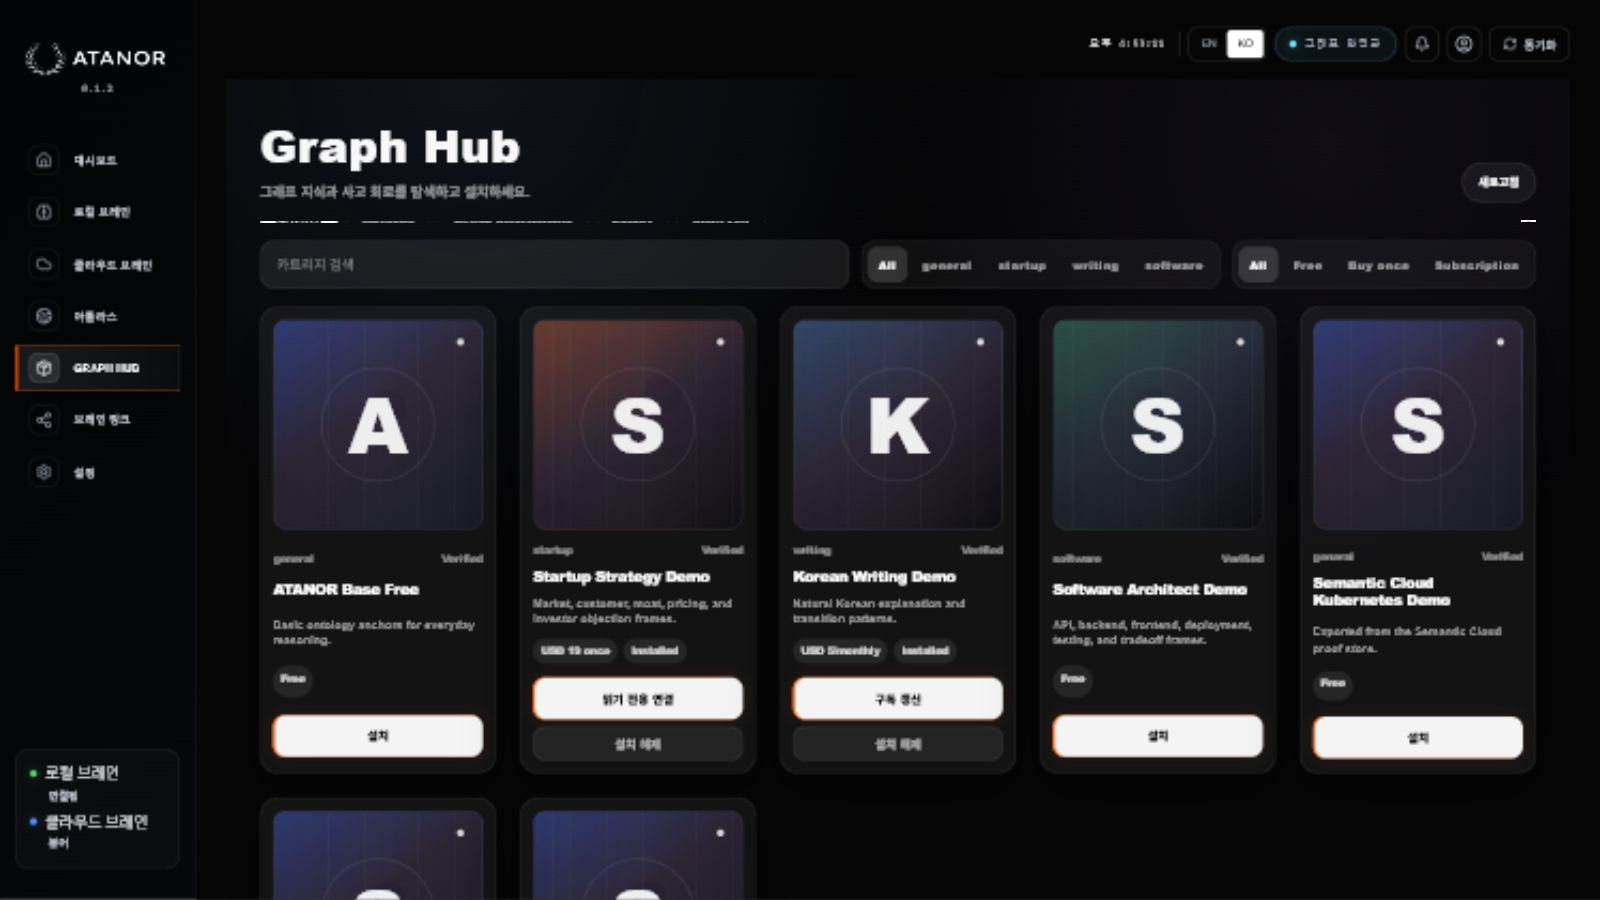
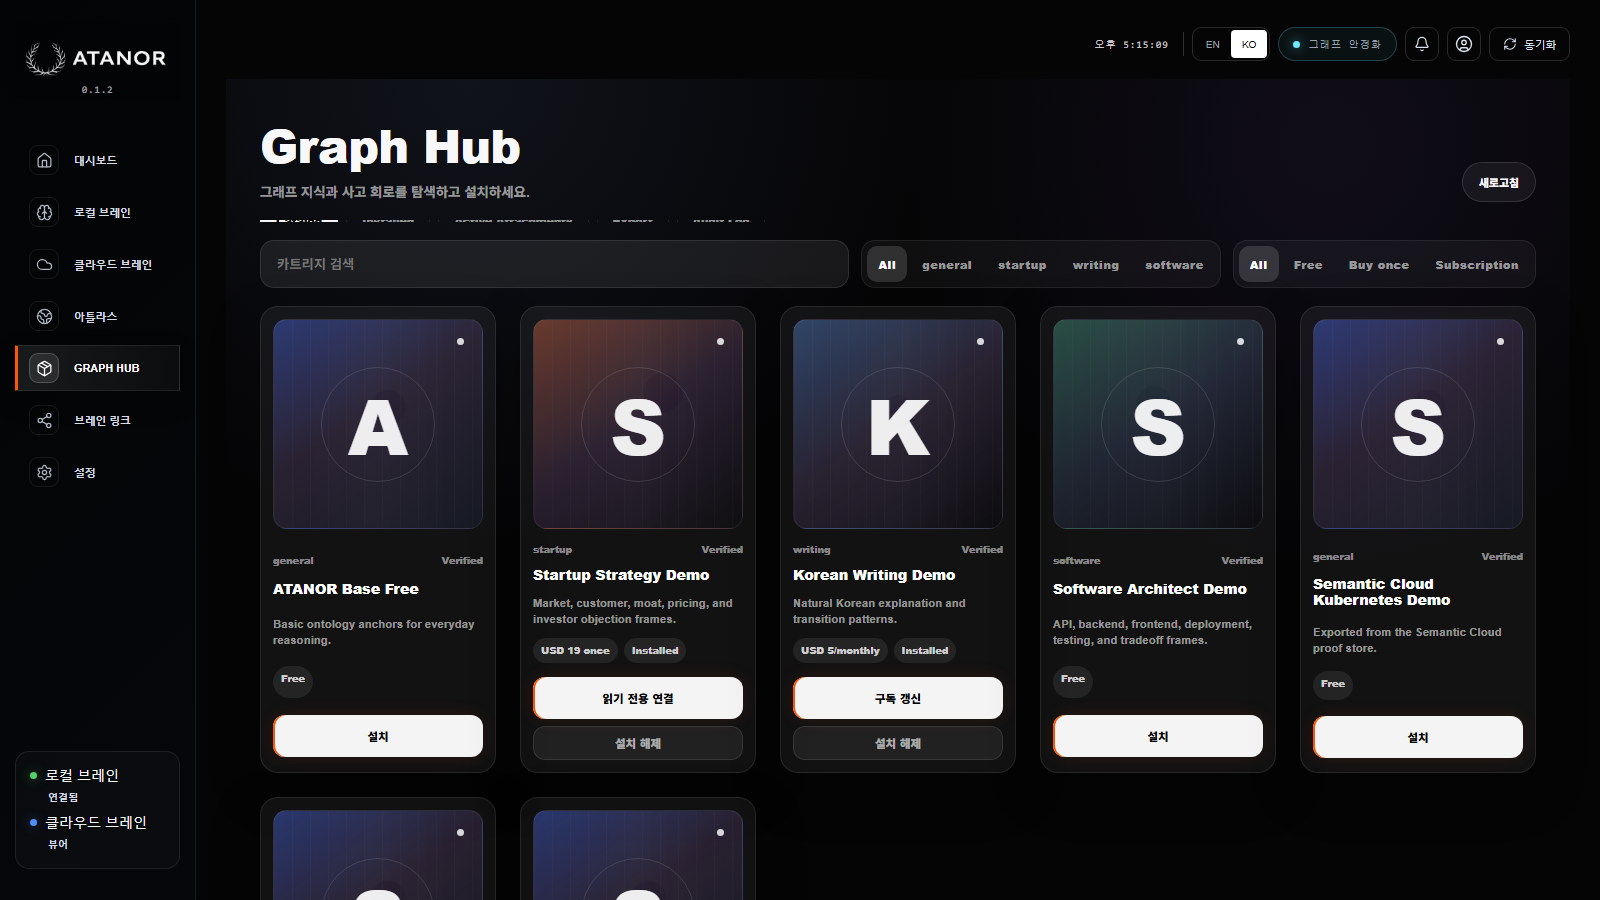
style: normalize Graph Hub and Brain Link interactions

diff --git a/apps/web/app/globals.css b/apps/web/app/globals.css
@@ -5674,22 +5674,39 @@ p {
 
 .atanor-graph-hub-tabs {
   align-items: center;
+  background: rgba(255, 255, 255, 0.055);
+  border: 1px solid rgba(255, 255, 255, 0.09);
+  border-radius: 16px;
   display: flex;
-  gap: 8px;
+  gap: 6px;
   overflow-x: auto;
-  padding-bottom: 2px;
+  padding: 6px;
+  scrollbar-width: none;
+  width: min(100%, 760px);
 }
 
 .atanor-graph-hub-tabs button {
   background: transparent;
-  border: 1px solid rgba(255, 255, 255, 0.1);
-  border-radius: 999px;
-  color: rgba(255, 255, 255, 0.58);
+  border: 0;
+  border-radius: 12px;
+  color: rgba(255, 255, 255, 0.68);
   cursor: pointer;
   flex: 0 0 auto;
-  font: 800 0.78rem Helvetica, Arial, sans-serif;
-  min-height: 38px;
-  padding: 0 15px;
+  font: 900 0.76rem Helvetica, Arial, sans-serif;
+  min-height: 40px;
+  padding: 0 14px;
+  white-space: nowrap;
+}
+
+.atanor-graph-hub-tabs::-webkit-scrollbar {
+  display: none;
+}
+
+.atanor-graph-hub-tabs button span {
+  display: block;
+  overflow: hidden;
+  text-overflow: ellipsis;
+  white-space: nowrap;
 }
 
 .atanor-graph-hub-tabs button[data-active="true"] {
@@ -5899,21 +5916,35 @@ p {
 }
 
 .atanor-graph-hub-card-actions button {
+  align-items: center;
   background: #f4f4f4;
   border: 0;
   border-radius: 12px;
   color: #050506;
   cursor: pointer;
+  display: flex;
   font: 900 0.82rem Helvetica, Arial, sans-serif;
+  justify-content: center;
+  line-height: 1;
   min-height: 42px;
+  overflow: hidden;
   padding: 0 13px;
+  white-space: nowrap;
+}
+
+.atanor-graph-hub-card-actions button span {
+  display: block;
+  max-width: 100%;
+  overflow: hidden;
+  text-overflow: ellipsis;
+  white-space: nowrap;
 }
 
 .atanor-graph-hub-card-actions button + button {
   background: rgba(255, 255, 255, 0.065);
   border: 1px solid rgba(255, 255, 255, 0.1);
   color: rgba(255, 255, 255, 0.72);
-  min-height: 34px;
+  min-height: 42px;
 }
 
 .atanor-graph-hub-lower {
@@ -6141,12 +6172,19 @@ p {
 }
 
 .atanor-contribution-actions button {
+  align-items: center;
   background: #f4f4f4;
   border: 0;
   border-radius: 12px;
   color: #050506;
+  display: inline-flex;
   font: 900 0.82rem Helvetica, Arial, sans-serif;
+  justify-content: center;
+  line-height: 1;
   min-height: 40px;
+  min-width: 118px;
+  padding: 0 16px;
+  white-space: nowrap;
 }
 
 .atanor-contribution-actions button + button {
@@ -6304,6 +6342,10 @@ p {
 
 .atanor-credit-chart[data-active="true"] polyline {
   filter: drop-shadow(0 0 8px rgba(255, 138, 0, 0.62));
+}
+
+.atanor-credit-chart polyline {
+  transition: d 180ms ease, filter 180ms ease;
 }
 
 .atanor-credit-chart-axis {

diff --git a/apps/web/app/page.tsx b/apps/web/app/page.tsx
@@ -1546,6 +1546,7 @@ export default function BakeBoardPage() {
   const [contributionCpuLimit, setContributionCpuLimit] = useState(() => Number(readBrowserStorage("atanor.contribution.cpuLimit") ?? 20));
   const [contributionGpuLimit, setContributionGpuLimit] = useState(() => Number(readBrowserStorage("atanor.contribution.gpuLimit") ?? 0));
   const [contributionAllowPublic, setContributionAllowPublic] = useState(() => readBrowserStorage("atanor.contribution.publicFragments") !== "false");
+  const [contributionChartTick, setContributionChartTick] = useState(0);
   const [contributionStatus, setContributionStatus] = useState<AnyRecord | null>(null);
   const [persistedLearningSeconds, setPersistedLearningSeconds] = useState(0);
   const [learningVolume, setLearningVolume] = useState<LearningVolume>("standard");
@@ -3393,10 +3394,12 @@ export default function BakeBoardPage() {
     const activityBoost = contributionIsActive ? 0.34 : 0.08;
     const gpuBoost = contributionGpuAvailable ? contributionGpuLimitEffective / 140 : 0.04;
     const cpuBoost = contributionCpuUsage / 260;
+    const phase = contributionChartTick / 1.7;
     const samples = [0.72, 0.78, 0.74, 0.86, 0.91, 0.88, 1.02, 0.98, 1.1, 1.16, 1.12, 1.24];
     const values = samples.map((sample, index) => {
       const liveBias = (index / Math.max(1, samples.length - 1)) * (activityBoost + gpuBoost + cpuBoost);
-      return Number(Math.max(0, base * sample + liveBias).toFixed(2));
+      const wave = Math.sin(phase + index * 0.82) * 0.11 + Math.cos(phase * 1.7 + index * 0.44) * 0.05;
+      return Number(Math.max(0, base * (sample + wave) + liveBias).toFixed(2));
     });
     const max = Math.max(...values, 1);
     const min = Math.min(...values, 0);
@@ -3406,7 +3409,7 @@ export default function BakeBoardPage() {
       x: Number(((index / Math.max(1, values.length - 1)) * 100).toFixed(2)),
       y: Number((80 - ((value - min) / range) * 62).toFixed(2)),
     }));
-  }, [contributionCpuUsage, contributionEstimatedTaskCredit, contributionGpuAvailable, contributionGpuLimitEffective, contributionIsActive, contributionTotalCredit]);
+  }, [contributionChartTick, contributionCpuUsage, contributionEstimatedTaskCredit, contributionGpuAvailable, contributionGpuLimitEffective, contributionIsActive, contributionTotalCredit]);
   const contributionCreditPolyline = contributionCreditTrend.map((point) => `${point.x},${point.y}`).join(" ");
   const contributionCreditArea = contributionCreditTrend.length
     ? `0,96 ${contributionCreditPolyline} 100,96`
@@ -3463,6 +3466,12 @@ export default function BakeBoardPage() {
     if (!continuousLearningActive || !resourceStopReason) return;
     stopContinuousLearning(resourceStopReason);
   }, [continuousLearningActive, resourceStopReason]);
+
+  useEffect(() => {
+    if (mainSection !== "contribute") return;
+    const timer = window.setInterval(() => setContributionChartTick((tick) => tick + 1), 1000);
+    return () => window.clearInterval(timer);
+  }, [mainSection]);
 
   const advancedProcessSteps: never[] = []; /*
     {
@@ -5017,7 +5026,7 @@ export default function BakeBoardPage() {
                 ["audit", language === "ko" ? "Audit Log" : "Audit Log"],
               ].map(([id, label]) => (
                 <button key={id} type="button" data-active={graphHubTab === id} onClick={() => setGraphHubTab(id as typeof graphHubTab)}>
-                  {label}
+                  <span>{label}</span>
                 </button>
               ))}
             </nav>
@@ -5075,14 +5084,14 @@ export default function BakeBoardPage() {
                     </div>
                     <div className="atanor-graph-hub-card-actions">
                       <button disabled={graphHubRunning === item.cartridge_id} onClick={() => handleGraphHubPrimary(item)}>
-                        {graphHubRunning === item.cartridge_id ? (language === "ko" ? "처리 중" : "Working") : graphHubPrimaryLabel(item)}
+                        <span>{graphHubRunning === item.cartridge_id ? (language === "ko" ? "처리 중" : "Working") : graphHubPrimaryLabel(item)}</span>
                       </button>
                       {item.installed ? (
                         <button
                           type="button"
                           onClick={() => runGraphHubAction(`uninstall-${String(item.cartridge_id)}`, `/api/graph-hub/uninstall/${encodeURIComponent(String(item.cartridge_id))}`)}
                         >
-                          {language === "ko" ? "설치 해제" : "Uninstall"}
+                          <span>{language === "ko" ? "설치 해제" : "Uninstall"}</span>
                         </button>
                       ) : null}
                       {item.pricing_model === "subscription" && item.entitlement_status === "active_subscription" ? (
@@ -5090,7 +5099,7 @@ export default function BakeBoardPage() {
                           type="button"
                           onClick={() => runGraphHubAction(`expire-${String(item.cartridge_id)}`, `/api/graph-hub/entitlements/expire/${encodeURIComponent(String(item.cartridge_id))}`)}
                         >
-                          {language === "ko" ? "구독 관리" : "Manage subscription"}
+                          <span>{language === "ko" ? "구독 관리" : "Manage"}</span>
                         </button>
                       ) : null}
                     </div>
@@ -5319,11 +5328,11 @@ export default function BakeBoardPage() {
                   <button onClick={() => runAction(enableContribution)}>
                     {contributionEnabled && !contributionPaused ? (language === "ko" ? "브레인 링크 갱신" : "Refresh Brain Link") : (language === "ko" ? "브레인 링크 연결" : "Connect Brain Link")}
                   </button>
-                  <button disabled={contributionBlockedBySafety} onClick={contributionIsActive ? pauseContribution : resumeContribution}>
+                  <button onClick={contributionBlockedBySafety ? () => runAction(refreshAll) : contributionIsActive ? pauseContribution : resumeContribution}>
                     {contributionIsActive
                       ? (language === "ko" ? "일시정지" : "Pause")
                       : contributionBlockedBySafety
-                        ? (language === "ko" ? "보호 조건 확인" : "Protection check")
+                        ? (language === "ko" ? "상태 재확인" : "Recheck")
                         : (language === "ko" ? "재개" : "Resume")}
                   </button>
                 </div>